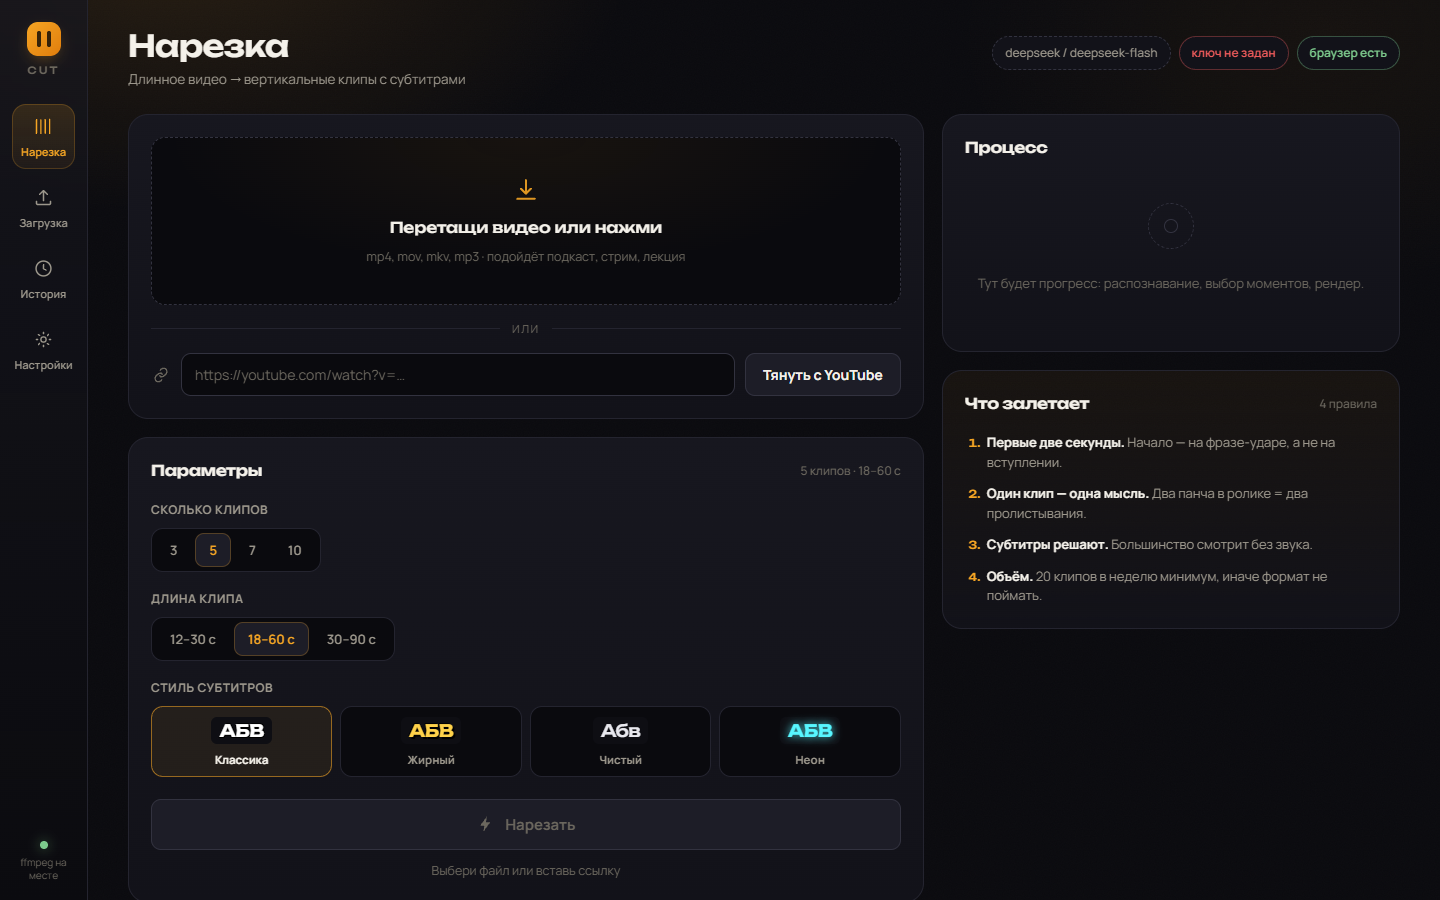
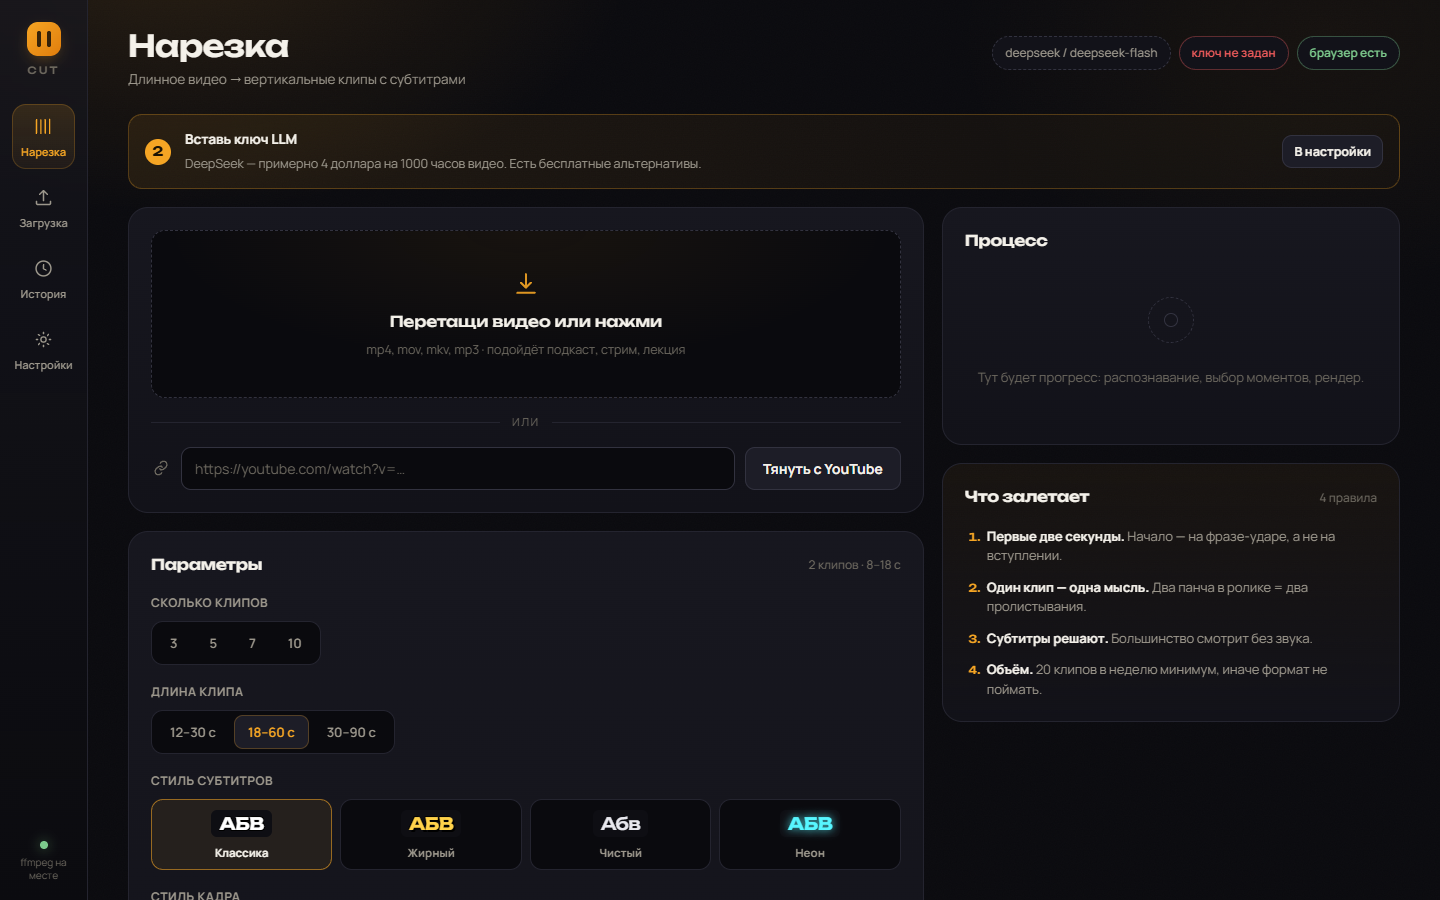
Скриншоты и чистка

diff --git a/README.md b/README.md
@@ -94,6 +94,8 @@ installer\build.ps1      # -> dist\Cutter-1.0.0-x64.msi
 
 ## Как устроено окно
 
+![Нативное окно Cutter](docs/shots/app-window.png)
+
 ```
 Cutter.exe  (C#, 37 КБ)          cutter_backend.exe  (Python, PyInstaller)
   ├─ запускает бэкенд               ├─ FastAPI на 127.0.0.1:8765
